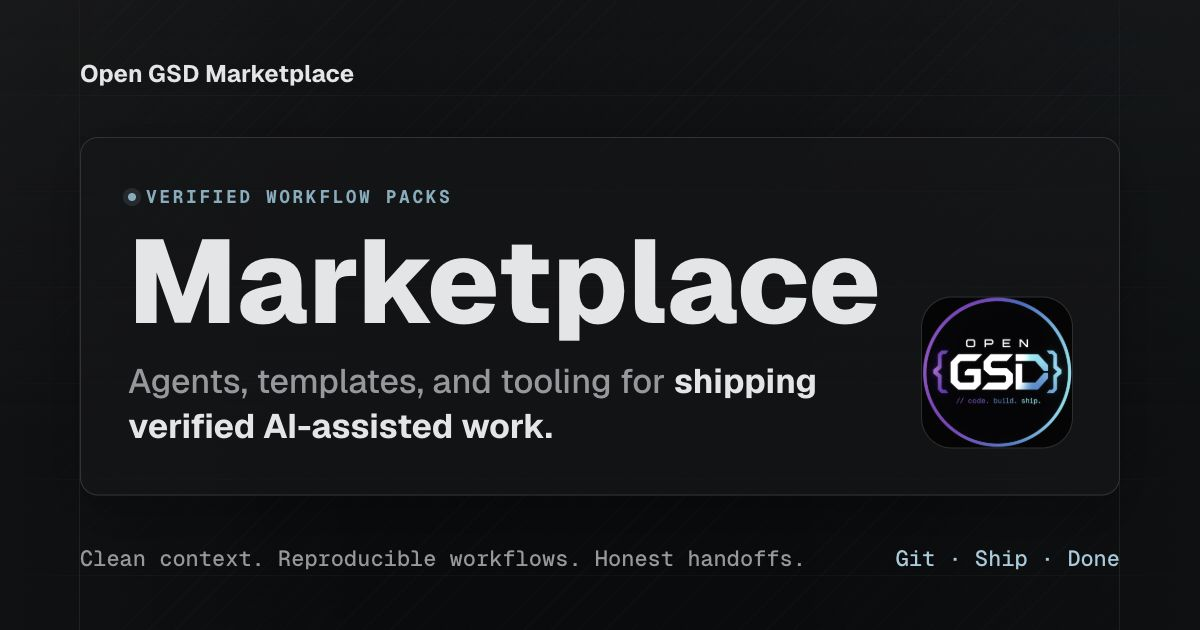
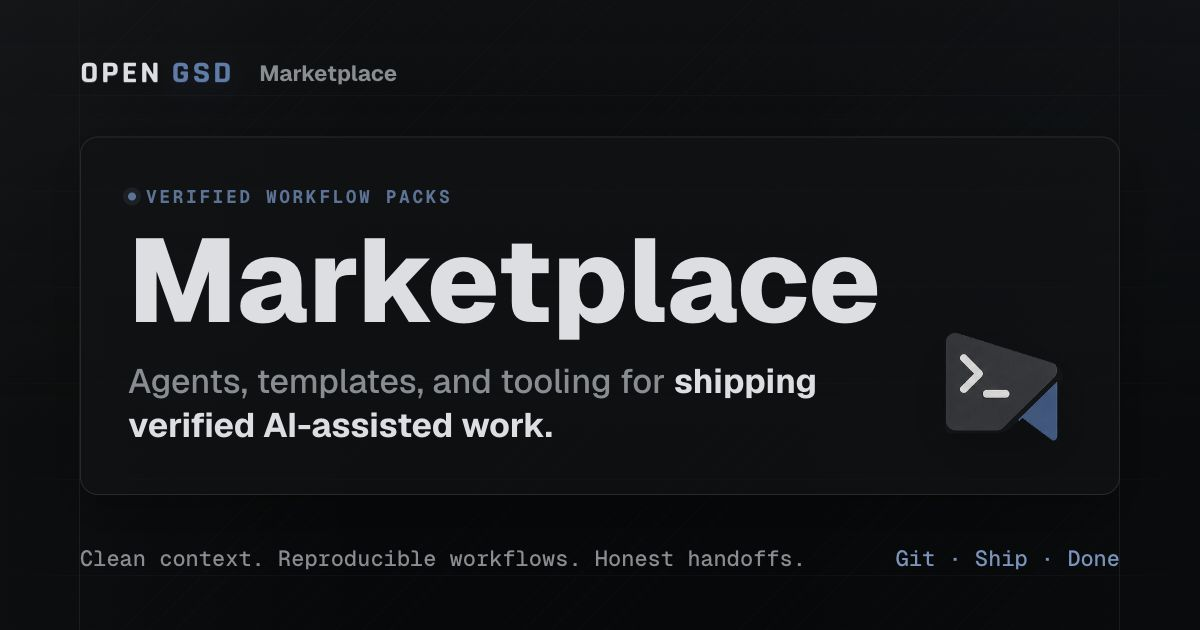
Use Open GSD brand assets

diff --git a/index.html b/index.html
@@ -18,37 +18,50 @@
   <meta name="twitter:description" content="Agents, templates, and tooling for shipping verified AI-assisted work.">
   <meta name="twitter:image" content="https://marketplace-gsd-dev.vercel.app/og-image.jpg">
   <meta name="twitter:image:alt" content="Open GSD Marketplace preview">
-  <link rel="icon" href="https://opengsd.net/opengsd-logo.png">
+  <link rel="icon" href="/open-gsd-icon.png">
   <link rel="preconnect" href="https://fonts.googleapis.com">
   <link rel="preconnect" href="https://fonts.gstatic.com" crossorigin>
-  <link href="https://fonts.googleapis.com/css2?family=Geist:wght@400;500;600;700&amp;family=Geist+Mono:wght@400;500;600&amp;display=swap" rel="stylesheet">
+  <link href="https://fonts.googleapis.com/css2?family=Geist:wght@400;500;600;700&amp;family=Geist+Mono:wght@400;500;600&amp;family=Rajdhani:wght@700&amp;display=swap" rel="stylesheet">
   <style>
     :root {
-      --background: oklch(0.15 0.003 260);
-      --background-elevated: oklch(0.2 0.004 260);
-      --foreground: oklch(0.92 0.004 260);
-      --muted: oklch(0.68 0.006 260);
-      --accent: oklch(0.72 0.055 224);
-      --accent-strong: oklch(0.82 0.052 224);
-      --brass: oklch(0.68 0.045 58);
-      --green: oklch(0.7 0.042 154);
-      --border: oklch(0.32 0.006 260);
-      --accent-shadow: 0, 0, 0;
+      --background: oklch(0.132 0.004 252);
+      --background-elevated: oklch(0.185 0.005 252);
+      --foreground: oklch(0.9 0.006 245);
+      --muted: oklch(0.64 0.009 245);
+      --accent: oklch(0.55 0.068 255);
+      --accent-strong: oklch(0.66 0.072 255);
+      --brass: oklch(0.56 0.045 75);
+      --green: oklch(0.65 0.035 160);
+      --border: oklch(0.28 0.007 252);
+      --accent-soft: oklch(0.245 0.032 255);
+      --accent-shadow: 31, 70, 122;
+      --logo-metal-top: oklch(0.32 0.006 245);
+      --logo-metal-bottom: oklch(0.18 0.006 245);
+      --logo-ink: oklch(0.92 0.006 245);
+      --logo-blue: oklch(0.48 0.08 255);
+      --logo-blue-strong: oklch(0.58 0.085 255);
       --font-sans: "Geist", ui-sans-serif, system-ui, -apple-system, "Segoe UI", sans-serif;
       --font-mono: "Geist Mono", ui-monospace, "SF Mono", Menlo, monospace;
+      --font-logo: "Rajdhani", "Geist", ui-sans-serif, system-ui, sans-serif;
     }
 
     :root[data-theme="light"] {
-      --background: oklch(0.982 0.006 248);
-      --background-elevated: oklch(0.955 0.008 248);
-      --foreground: oklch(0.22 0.018 248);
-      --muted: oklch(0.5 0.022 248);
-      --accent: oklch(0.44 0.08 238);
-      --accent-strong: oklch(0.34 0.08 238);
-      --brass: oklch(0.48 0.075 62);
+      --background: oklch(0.972 0.006 245);
+      --background-elevated: oklch(0.942 0.007 245);
+      --foreground: oklch(0.22 0.012 245);
+      --muted: oklch(0.48 0.015 245);
+      --accent: oklch(0.44 0.075 255);
+      --accent-strong: oklch(0.34 0.08 255);
+      --brass: oklch(0.48 0.055 75);
       --green: oklch(0.45 0.065 158);
-      --border: oklch(0.86 0.012 248);
-      --accent-shadow: 41, 83, 132;
+      --border: oklch(0.835 0.01 245);
+      --accent-soft: oklch(0.89 0.028 255);
+      --accent-shadow: 36, 74, 126;
+      --logo-metal-top: oklch(0.35 0.006 245);
+      --logo-metal-bottom: oklch(0.22 0.006 245);
+      --logo-ink: oklch(0.94 0.006 245);
+      --logo-blue: oklch(0.44 0.08 255);
+      --logo-blue-strong: oklch(0.52 0.085 255);
     }
 
     * { box-sizing: border-box; }
@@ -136,7 +149,7 @@
       display: inline-flex;
       min-height: 44px;
       align-items: center;
-      gap: 10px;
+      gap: 12px;
       border-radius: 999px;
       padding-right: 12px;
       text-decoration: none;
@@ -146,18 +159,45 @@
     .brand:hover { opacity: 0.9; }
     .brand:active { transform: scale(0.96); }
 
-    .brand img {
-      width: 32px;
-      height: 32px;
-      border-radius: 50%;
-      outline: 1px solid color-mix(in oklch, var(--foreground) 12%, transparent);
-      filter: saturate(0.58) contrast(0.96) brightness(1.06);
+    .brand-mark {
+      width: 38px;
+      height: auto;
+      display: block;
+      filter: drop-shadow(0 10px 18px rgba(0, 0, 0, 0.18));
     }
 
-    .brand-name {
-      font-size: 14px;
+    .brand-wordmark {
+      display: inline-flex;
+      align-items: baseline;
+      gap: 0.28em;
+      font-family: var(--font-logo);
+      font-size: 20px;
       font-weight: 700;
-      letter-spacing: 0;
+      letter-spacing: 0.075em;
+      line-height: 1;
+      text-transform: uppercase;
+      transform: scaleX(1.12);
+      transform-origin: left center;
+    }
+
+    .brand-wordmark-open {
+      color: var(--foreground);
+      text-shadow:
+        0 1px 0 color-mix(in oklch, var(--foreground) 24%, transparent),
+        0 6px 18px rgba(0, 0, 0, 0.24);
+    }
+
+    .brand-wordmark-gsd {
+      color: var(--logo-blue-strong);
+      text-shadow:
+        0 1px 0 color-mix(in oklch, var(--logo-blue-strong) 18%, transparent),
+        0 6px 18px rgba(var(--accent-shadow), 0.24);
+    }
+
+    .brand-product {
+      color: var(--muted);
+      font-size: 14px;
+      font-weight: 600;
     }
 
     .nav-links {
@@ -276,11 +316,9 @@
     .hero-copy strong { color: var(--foreground); font-weight: 600; }
 
     .hero-logo {
-      width: 112px;
-      height: 112px;
-      border-radius: 22px;
-      outline: 1px solid color-mix(in oklch, var(--foreground) 12%, transparent);
-      filter: saturate(0.58) contrast(0.96) brightness(1.06);
+      width: 148px;
+      height: auto;
+      filter: drop-shadow(0 18px 28px rgba(0, 0, 0, 0.22));
     }
 
     .hero-note {
@@ -481,11 +519,9 @@
     }
 
     .footer-brand img {
-      width: 28px;
-      height: 28px;
-      border-radius: 50%;
-      outline: 1px solid color-mix(in oklch, var(--foreground) 12%, transparent);
-      filter: saturate(0.58) contrast(0.96) brightness(1.06);
+      width: 34px;
+      height: auto;
+      filter: drop-shadow(0 10px 18px rgba(0, 0, 0, 0.18));
     }
 
     .footer-links {
@@ -533,8 +569,12 @@
     <header class="nav">
       <nav class="nav-inner" aria-label="Main navigation">
         <a class="brand" href="https://opengsd.net">
-          <img src="https://opengsd.net/opengsd-logo.png" alt="Open GSD">
-          <span class="brand-name">Open GSD Marketplace</span>
+          <img class="brand-mark" src="/open-gsd-mark.png" alt="">
+          <span class="brand-wordmark">
+            <span class="brand-wordmark-open">OPEN</span>
+            <span class="brand-wordmark-gsd">GSD</span>
+          </span>
+          <span class="brand-product">Marketplace</span>
         </a>
         <div class="nav-links">
           <a href="#catalog">Catalog</a>
@@ -556,7 +596,7 @@
                 <strong>Install less ceremony, ship more verified work.</strong>
               </p>
             </div>
-            <img class="hero-logo" src="https://opengsd.net/opengsd-logo.png" alt="" aria-hidden="true">
+            <img class="hero-logo" src="/open-gsd-mark.png" alt="" aria-hidden="true">
           </div>
 
           <p class="hero-note">
@@ -643,7 +683,7 @@
     <footer class="footer">
       <div class="footer-inner">
         <div class="footer-brand">
-          <img src="https://opengsd.net/opengsd-logo.png" alt="" aria-hidden="true">
+          <img src="/open-gsd-mark.png" alt="" aria-hidden="true">
           <span>Open GSD</span>
         </div>
         <div class="footer-links">